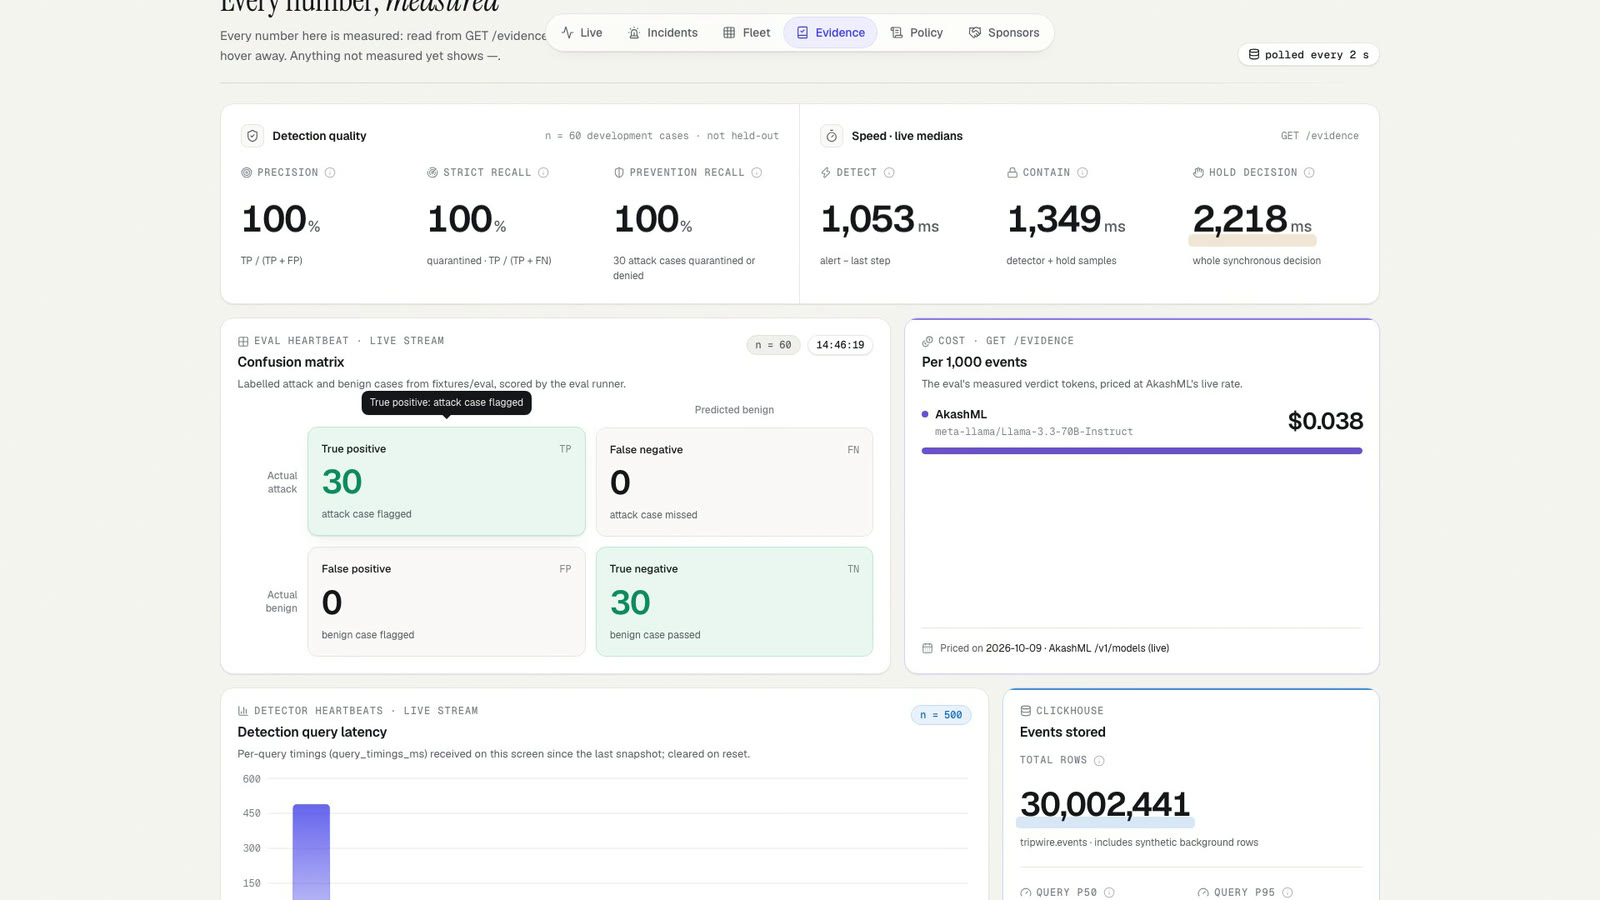
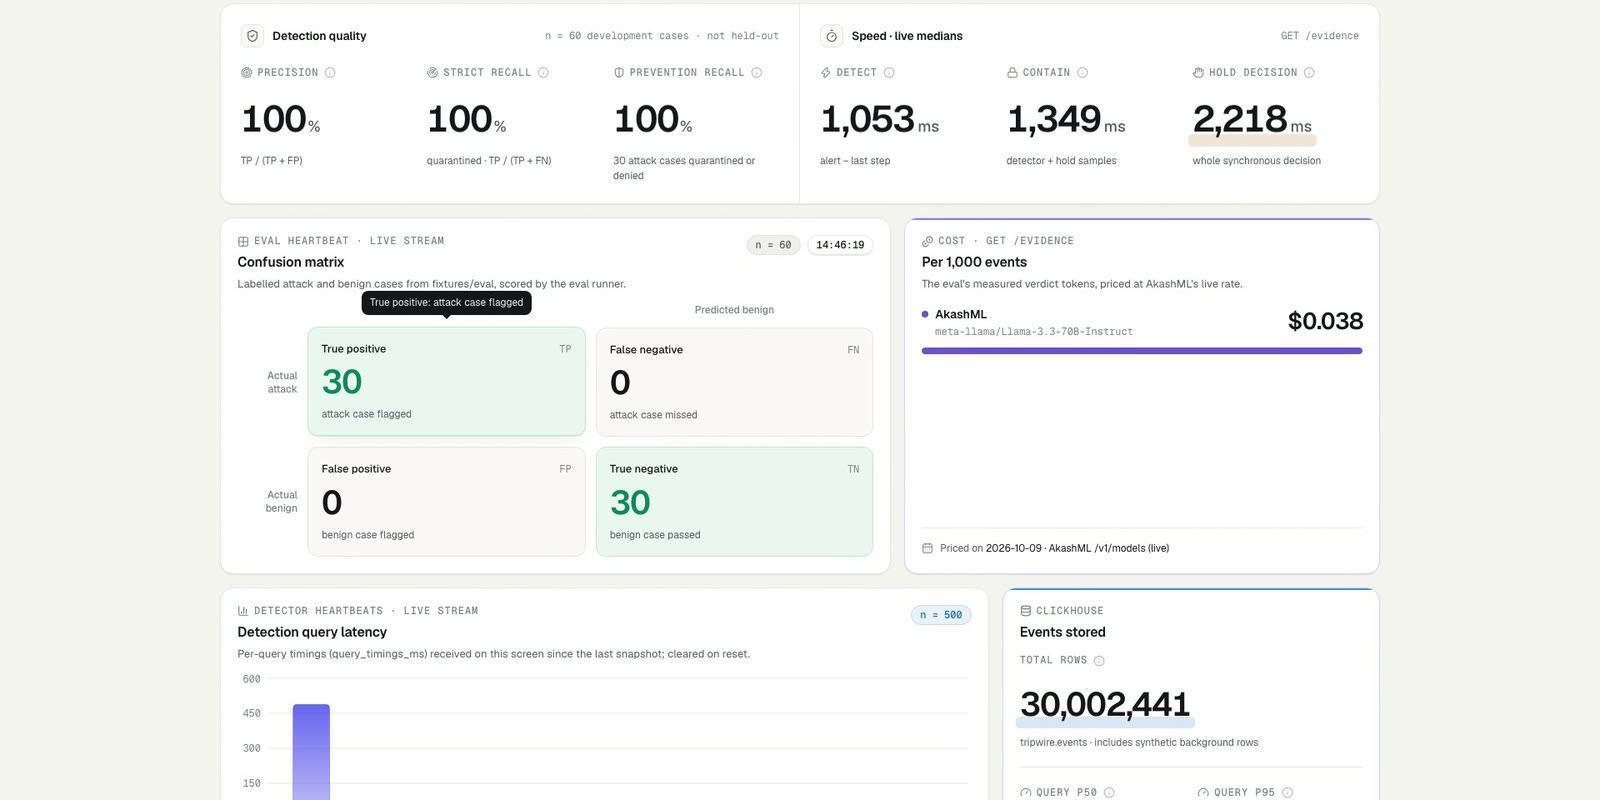
docs(bindu): README verification fixes — accurate captions, subject crops, honest wording
- captions/alt text match each frame (ticket shown before the replay; hero numbers; report model
  and fallback; MCP assume_role is a fixed policy deny, not a model hold)
- 07 is now a close-up of the two denied agent cards (was a duplicate of the hero); 09/13/14/15/
  17/18/19/21/22 cropped to their subject so they read at README size
- wording: live stack + recorded fixture replays (not "nothing mocked"), taint supplied by the
  calling agent, hold latency 1.6–2.6 s, Semgrep receipt scope/date, investigator model fallback,
  final live check row (13 checks, API level, model-call latency)
- guild/agent/README.md + RUNBOOK diagram name the current integration tripwire2 and agent

diff --git a/README.md b/README.md
@@ -11,9 +11,9 @@ AI agents now hold production keys: they read config, run commands and call exte
 | **Repo** | https://github.com/bhargavchintam/tripwire |
 | **Demo run sheet** | [`docs/DEMO_SCRIPT.md`](docs/DEMO_SCRIPT.md): every line, every click, with its timing |
 
-![Tripwire live console after Act 3: deploy-bot quarantined on an AkashML verdict, support-bot (which read the same poisoned ticket) on heightened watch with its outbound send denied, measured detect/contain/hold times below](docs/img/00-hero.jpg)
+![Tripwire live console after Act 3: deploy-bot quarantined (its next read_file stamped DENIED), support-bot (which read the same poisoned ticket) on heightened watch with its http_post to partner-sync.example.org stamped DENIED, and the measured hold / detect / contain medians below (2,218 / 1,053 / 1,349 ms)](docs/img/00-hero.jpg)
 
-*All screenshots in this README are frames from the final demo take (Oct 10, 13:08–13:12 PT): the live stack on ClickHouse Cloud + AkashML + Guild, nothing mocked.*
+*All screenshots in this README are frames from the final demo take (Oct 10, 13:08–13:12 PT) on the live stack (ClickHouse Cloud + AkashML + Guild). The attacks are recorded fixture replays and the MCP client is the recorder's scripted stdio client; every verdict, number and Guild reply on screen is live.*
 
 ---
 
@@ -22,7 +22,7 @@ AI agents now hold production keys: they read config, run commands and call exte
 **Contents:** [1 · Prevent](#1--prevent-held-before-it-runs) · [2 · Trip](#2--trip-honeytokens) · [3 · Trace](#3--trace-patient-zero-across-the-fleet) · [4 · Cure with proof](#4--cure-with-proof-and-a-human-in-guild) · [Explain](#explain-every-incident) · [Govern any agent](#govern-any-agent-guild-and-mcp) · [Policy copilot](#policy-as-code-copilot--backtest) · [Fleet](#fleet-at-a-glance-clickhouse) · [Evidence](#every-number-measured-evidence) · [Sponsors](#sponsors-and-semgrep) · [Operator tools](#operator-tools)
 
 ### 1 · Prevent: held before it runs
-We replay a recorded attack (`fixtures/secret_theft.json`: read ticket → read `/app/.env` → grep + base64 the secrets → `http_post` to `drop.example.net`) with **hold mode on**. The send is **held, judged by an AkashML model, and denied before it runs** (`reason=hold_model`, `decision_source=akashml`; ≈1.3–2.6 s end to end across runs, 2,287 ms in the final take), and deploy-bot is quarantined. With no model available the same hold falls back to a labelled rule (`hold_rule`, `rule_only`), never presented as a model.
+We replay a recorded attack (`fixtures/secret_theft.json`: read ticket → read `/app/.env` → grep + base64 the secrets → `http_post` to `drop.example.net`) with **hold mode on**. The send is **held, judged by an AkashML model, and denied before it runs** (`reason=hold_model`, `decision_source=akashml`; ≈1.6–2.6 s end to end across measured runs: the Act 1 send took 2,287 ms in the final take, and the 2,218 ms in later screenshots is the median over all of that take's held sends), and deploy-bot is quarantined. With no model available the same hold falls back to a labelled rule (`hold_rule`, `rule_only`), never presented as a model.
 
 ![Act 1: the attack chain reaches Held / denied (hold_model) and Quarantined; the live tool-call table shows the http_post Held · denied, and the incident feed shows the AkashML model verdict](docs/img/01-prevent-held-denied.jpg)
 
@@ -32,16 +32,16 @@ In the `honeytoken_exfil` replay the stolen `.env` holds decoy credentials. The 
 ![Act 2: the http_post is denied with reason honeytoken; the attack chain shows denied · honeytoken](docs/img/02-trip-honeytoken.jpg)
 
 ### 3 · Trace: patient zero across the fleet
-**Hold mode off** — the hard case. Two agents read the same poisoned ticket. Every later action carries its taint (`tainted_by: ticket:4821`, set by our agents and shown as *from ticket:4821* chips) and the attack chain lights stage by stage. The **detector** (ClickHouse `windowFunnel` + rules every 1 s, verdict on AkashML) catches deploy-bot in about a second, then the **outbreak tracer** finds patient zero, puts every other agent that read it on *heightened* watch, and pushes the attacker's host to a fleet-wide denylist. So when support-bot later tries to send data out, that send is **held and denied** even with global hold off.
+**Hold mode off** — the hard case. Two agents read the same poisoned ticket. Every later action carries its taint (`tainted_by: ticket:4821`, supplied by the calling agent (in the demo, the recorded replay fixture), stored by the checkpoint and shown as *from ticket:4821* chips) and the attack chain lights stage by stage. The **detector** (ClickHouse `windowFunnel` + rules every 1 s, verdict on AkashML) catches deploy-bot in about a second, then the **outbreak tracer** finds patient zero, puts every other agent that read it on *heightened* watch, and pushes the attacker's host to a fleet-wide denylist. So when support-bot later tries to send data out, that send is **held and denied** even with global hold off.
 
 | | |
 |---|---|
-| ![The poisoned ticket 4821 with its injected instruction highlighted, read by 2 agents this session](docs/img/03-poisoned-ticket.jpg) | ![Live tool calls with from ticket:4821 taint chips while the attack chain lights up](docs/img/04-taint-chips.jpg) |
+| ![The poisoned ticket 4821 with its injected instruction highlighted, shown before the replay (no agent has read it yet this session)](docs/img/03-poisoned-ticket.jpg) | ![Live tool calls after support-bot and deploy-bot read ticket:4821: every later call carries a taint chip (from tic…, shown as tainted by ticket:4821 in the attack-chain header) while the attack chain lights up 2/5](docs/img/04-taint-chips.jpg) |
 | **The poisoned ticket** — the recorded, synthetic ticket with its injected instruction highlighted. | **Taint chips** — every action after the read is tagged with where it came from. |
 | ![Attack chain at 4/5 stages: secret read, encode, external send, quarantined](docs/img/05-attack-chain.jpg) | ![Outbreak traced: patient zero ticket:4821, exposed agent support-bot heightened, drop.example.net blocked fleet-wide](docs/img/06-outbreak-traced.jpg) |
 | **Attack chain** — built live from the tool calls. | **Outbreak traced** — patient zero, exposed agents, fleet-wide denylist. |
 
-![support-bot's http_post to partner-sync.example.org stamped DENIED while deploy-bot is quarantined](docs/img/07-exposed-agent-denied.jpg)
+![Close-up: deploy-bot quarantined with its read_file stamped DENIED; support-bot heightened with its http_post to partner-sync.example.org stamped DENIED](docs/img/07-exposed-agent-denied.jpg)
 
 ### 4 · Cure with proof, and a human in Guild
 A candidate guardrail must pass **four gates**: `replay_refused` (the incident replayed in an isolated sandbox is denied), `normal_ops_ok` (normal work still allowed), `backtest` (one query over the **whole** `events` table on ClickHouse Cloud — 30,002,436 events in 724 ms in the final take) and `policy_lint`. **Ask a human in Guild** starts our Guild Responder agent with the real incident and proof; it waits until a person replies APPROVE or REJECT in the Guild session. Tripwire **reads the human's answer back** from Guild ("Approved in Guild by a human") and one click on **Approve & restore** applies the policy and restores the agents.
@@ -56,16 +56,16 @@ The incident sheet shows the **verdict** (model id, latency, tokens, confidence 
 
 | | | |
 |---|---|---|
-| ![Verdict: Malicious 100%, AkashML model meta-llama/Llama-3.3-70B-Instruct, latency 1,167 ms, tokens](docs/img/08-incident-verdict.jpg) | ![Investigator report written by the model, citing receipts R1–R6](docs/img/09-incident-report.jpg) | ![SQL receipts: each query with its milliseconds and rows read](docs/img/10-incident-receipts.jpg) |
+| ![Verdict: Malicious 100%, AkashML model meta-llama/Llama-3.3-70B-Instruct, latency 1,167 ms, tokens](docs/img/08-incident-verdict.jpg) | ![Investigator report on deploy-bot's secret_theft incident, written by meta-llama/Llama-3.3-70B-Instruct on AkashML (fallback after gpt-oss-120b timed out), built from 6 receipts](docs/img/09-incident-report.jpg) | ![SQL receipts: each query with its milliseconds and rows read](docs/img/10-incident-receipts.jpg) |
 | **Verdict** with its model and latency | **Investigator report** | **Query receipts** |
 
 ### Govern any agent: Guild and MCP
 - **Guild-hosted agents:** a Guild **Native agent** (`bindubhargavareddy~tripwire-deploy-bot`) has exactly one tool, our Guild integration (`bindubhargavareddy~tripwire2`, `POST /tool`), which reaches a token-gated proxy (`tripwire/guild_proxy.py`) through a tunnel. Every call it makes is recorded and decided by the same checkpoint, as `guild:deploy-bot`.
-- **MCP agents:** `tripwire/mcp_server.py` is a stdio MCP server; any MCP agent (configured e.g. for Claude Code in [`docs/MCP.md`](docs/MCP.md)) asks Tripwire before it acts. Shown: `read_file` allowed, `assume_role` held and denied (`hold_policy`). The calls in the video come from the recorder's scripted stdio client using the agent id `docs/MCP.md` gives Claude Code.
+- **MCP agents:** `tripwire/mcp_server.py` is a stdio MCP server; any MCP agent (configured e.g. for Claude Code in [`docs/MCP.md`](docs/MCP.md)) asks Tripwire before it acts. Shown: `read_file` allowed, `assume_role` denied by policy (`hold_policy`: a fixed-deny action, no model call). The calls in the video come from the recorder's scripted stdio client using the agent id `docs/MCP.md` gives Claude Code.
 
 | | |
 |---|---|
-| ![guild:deploy-bot's read_file, run_command and http_post arriving in Live tool calls](docs/img/13-guild-agent.jpg) | ![mcp:claude-code read_file allowed and assume_role Held · denied (hold_policy)](docs/img/15-mcp-agent.jpg) |
+| ![guild:deploy-bot's read_file, run_command and http_post arriving in Live tool calls](docs/img/13-guild-agent.jpg) | ![mcp:claude-code read_file allowed and assume_role denied by policy (hold_policy, shown as Held · denied)](docs/img/15-mcp-agent.jpg) |
 | **Guild agent** calls through the checkpoint | **MCP agent** asks before acting |
 
 ### Policy as code: copilot + backtest
@@ -86,7 +86,7 @@ The Evidence tab reads only `GET /evidence` and the live stream; anything not me
 ![Evidence: precision, strict and prevention recall 100%, detect/contain/hold medians, the confusion matrix 30/0/0/30 with n = 60 development cases · not held-out, and the AkashML cost per 1,000 events](docs/img/17-evidence.jpg)
 
 ### Sponsors and Semgrep
-The Sponsors tab shows what each sponsor does inside Tripwire with live proof from this session (ClickHouse row count + query receipts, the AkashML model ids seen, the Guild agent's last call) and the committed Semgrep scan receipt: **273 files, 13 findings, 0 open true positives** (the one real prompt-injection finding, LLM01, was fixed).
+The Sponsors tab shows what each sponsor does inside Tripwire with live proof from this session (ClickHouse row count + query receipts, the AkashML model ids seen, the Guild agent's last call) and the committed Semgrep scan receipt: **273 files, 13 findings, 0 open true positives** (final re-scan Oct 9 15:45 PT, before the read-only public view and the demo-video scripts were added; the one real prompt-injection finding, LLM01, was fixed).
 
 ![Sponsors tab: Semgrep "Our own code, scanned", Guild agents governed, Cure with proof, and ClickHouse / AkashML live proof](docs/img/18-sponsors-semgrep.jpg)
 
@@ -125,7 +125,7 @@ Also: **Presenter mode** (`P`, a slim live list for projectors), **keyboard cont
 | Live console | `web/` (React + Vite + TS) | served by FastAPI from `web/dist`, or Vite `:5173` in dev | built |
 | Replay scenarios | `fixtures/*.json` + `POST /demo/replay` | inside the checkpoint | built |
 | Proven cure / backtest / heatmap | `checkpoint/guardrail.py`, `checkpoint/fleet.py` | checkpoint → ClickHouse Cloud | built |
-| Simulated agents (record-only tools) | `agents/` | laptop | built |
+| Simulated agents (record-only tools) | `agents/` | laptop, on demand (in the demo, deploy-bot/support-bot traffic is replayed from `fixtures/*.json`) | built |
 | Detector (ms `windowFunnel`, secret_exfil_direct, role_grab, log_tamper, baseline novelty, watermarks) + outbreak tracer | `detection/` | laptop, polls every 1 s | built |
 | Quick check on AkashML | `ai/quick_check.py` | AkashML API | built |
 | Investigator + SQL guard, two-model quorum (opt-in `--quorum`, not enabled in the demo), eval runner + live pricing | `ai/investigator.py`, `ai/sqlguard.py`, `ai/quorum.py`, `eval/` | AkashML API | built |
@@ -145,7 +145,7 @@ Also: **Presenter mode** (`P`, a slim live list for projectors), **keyboard cont
 |---|---|---|
 | **ClickHouse** | ClickHouse Cloud stores every tool call in `tripwire.events`: a MergeTree ordered by `(agent_id, ts)` with a bloom-filter index on `target`. ClickHouse also does four jobs in the request path and the console. (1) Hold mode looks up the agent's history to spot a destination it has never used (800 ms budget). (2) A policy backtest scans the **full** table. (3) The fleet heatmap aggregates per agent per hour. (4) `/audit/verify` checks the per-agent hash chain. Reads see their own writes across the 2 replicas. | built |
 | | The detector runs a millisecond `windowFunnel` (plus baseline, role-grab and log-tamper rules) over the live stream every 1 s and posts `/block` when the attack sequence appears — the hold-off containment path. | built |
-| **AkashML / Akash** | `classify()` runs on AkashML (`meta-llama/Llama-3.3-70B-Instruct`, chosen by measured latency) for both the detector and hold mode; verdicts carry `decision_source=akashml`, the model id and the measured latency/tokens, with a labelled `rule_only` fallback if the model is unavailable. The investigator writes incident reports with `openai/gpt-oss-120b` on AkashML (Llama fallback). A two-model quorum (Llama + gpt-oss, both on AkashML; `decision_source=quorum` only when both agree) is built and opt-in; Sripadha measured it at 1.8–2.4 s, and we keep it off in the demo. **Measured cost** (eval, 14:46): **$0.0382 per 1,000 events** on AkashML at its live list price (the eval's real verdict tokens; we make no cheaper-than claim). About 1 in 5 quick checks (12 of 60 in the eval) hit the 2.5 s model budget and fell back to the labelled `rule_only`. | built |
+| **AkashML / Akash** | `classify()` runs on AkashML (`meta-llama/Llama-3.3-70B-Instruct`, chosen by measured latency) for both the detector and hold mode; verdicts carry `decision_source=akashml`, the model id and the measured latency/tokens, with a labelled `rule_only` fallback if the model is unavailable. The investigator asks `openai/gpt-oss-120b` on AkashML first and falls back to `meta-llama/Llama-3.3-70B-Instruct`; in the final take and the final live check gpt-oss-120b timed out, so Llama-3.3-70B wrote the reports (each report's footer names the model). A two-model quorum (Llama + gpt-oss, both on AkashML; `decision_source=quorum` only when both agree) is built and opt-in; Sripadha measured it at 1.8–2.4 s, and we keep it off in the demo. **Measured cost** (eval, 14:46): **$0.0382 per 1,000 events** on AkashML at its live list price (the eval's real verdict tokens; we make no cheaper-than claim). About 1 in 5 quick checks (12 of 60 in the eval) hit the 2.5 s model budget and fell back to the labelled `rule_only`. | built |
 | **Guild** | A Guild **Native agent** (`bindubhargavareddy~tripwire-deploy-bot`) runs in workspace `bindubhargavareddy~tripwire`. Its only tool is our Guild **integration** `bindubhargavareddy~tripwire2` (`POST /tool`; re-created Oct 10 after Cloudflare dropped the first quick tunnel, whose URL Guild had frozen), which reaches `tripwire/guild_proxy.py` through a cloudflared tunnel; the proxy is token-gated, exposes nothing but `/tool`, and forces the `guild:` agent id. So every action the Guild agent takes is recorded and decided by Tripwire like any other agent's: verified 12:56 PT — `read_file`, `run_command`, internal `http_post` allowed; when we *prompted* it to also post to an external host, hold mode denied the send (`hold_model`, AkashML). `POST /guild/run` (Sponsors tab button) starts the session. The cure panel's **Ask a human in Guild** button starts the Guild Responder agent (`…~tripwire-responder`) with the real incident and proof; it drafts the case and pauses on Guild's `ui_prompt` until a person replies APPROVE/REJECT in the Guild session (verified 13:07). Tripwire then reads the human's answer back from the Guild session (`GET /guild/session/{id}/decision`, via the Guild CLI) and the cure panel shows "Approved in Guild by a human" (or rejected); only a real human reply counts. Applying the cure stays an explicit click in Tripwire. | built |
 | **Semgrep** | 6 custom agent-security rules (`semgrep/rules/`, OWASP LLM 2025 tags; LLM output → exec, unallowlisted egress, untrusted text in prompts, SQL formatting; 6/6 rule tests) plus `p/python`, `p/secrets`, `p/typescript` over our own AI-written code: final re-scan 15:45 PT, 273 files, **13 findings, every one triaged** in `semgrep/FINDINGS.md` — **0 open true positives**. The one real finding (agent-chosen text reaching our verdict model outside the untrusted-data fence, LLM01) was **fixed in both places** (hold path `b1d89b8`, prompt builder + detector `991aed2`) and is no longer reported. Events carry `code_ref` (file:line) for the runtime→code link. | built |
 | **Pi (Most Innovative)** | One loop: **prevent → trip → trace → cure-with-proof**. Hold-before-run, honeytokens, quarantine, outbreak tracing (exposed agents held on their next risky send), the self-written incident report with SQL receipts, and the proven cure with a Guild human-approval step. | built |
@@ -179,8 +179,8 @@ Every number here comes from a receipt. Synthetic background data is labelled `s
 | **Eval: 60 labelled cases** (30 attack, 30 tricky-benign), live detector rules | **TP 30 · FP 0 · FN 0 · TN 30 → precision 1.000, strict recall (quarantined) 1.000, prevention recall 1.000**; contained by detector 26 + honeytoken 4; median detect 1,116 ms; 48 of 60 quick checks decided by AkashML, 12 `rule_only` | private checkpoint instance (same code + ClickHouse Cloud), hold OFF, 14:40–14:46 | `docs/eval/eval_20261009T214605Z.{md,json}` |
 | Eval cost per 1,000 events | **AkashML $0.0382** (Llama-3.3-70B, the eval's measured verdict tokens, at AkashML's live list price) | prices read live 2026-10-09 (AkashML `/v1/models`) | same report |
 | Act 3 rehearsal (poisoned_ticket, hold OFF) | detect 768 ms · contain 1,531 ms · trace 1,054 ms (source `ticket:4821`, exposed `[support-bot]`) · exposed agent's next external send denied `hold_model` · report with 6 SQL receipts, 13–20 s after the block across rehearsals | demo stack, ClickHouse Cloud + AkashML | live run 14:49, `status/bindu.md` |
-| **Demo video take** (all on camera, one continuous session) | Act 1 hold **2,287 ms** (AkashML Llama-3.3-70B) · Act 3 detect **1,053 ms**, contain **1,349 ms**, support-bot's partner-sync send denied `hold_model` · cure backtest **30,002,436 events in 724 ms**, 4/4 gates, human APPROVE read back from Guild, deploy-bot and support-bot restored (policy v185) · MCP client: `read_file` allowed, `assume_role` denied `hold_policy` | ClickHouse Cloud + AkashML + Guild | take 7, Oct 10 13:08–13:12 PT (recorder log `demo/out/record_log.json`, local only: frames are not committed) |
-| **Final live check** (every feature, real stack, after merging `sripadha/core`) | **13/13 passed**: Act 1 held + denied by AkashML in **1,346 ms**, agent quarantined · Act 2 honeytoken denied, no model · Act 3 detector + AkashML, outbreak traced to `[support-bot]`, its send denied · report with **6** receipts · cure 4/4 gates, backtest **30,002,462 events in 713 ms**, approve → policy v193, agent restored · eval on `/evidence` · heatmap **42 agents** · audit chain **intact (1,237 events)** · copilot preview, policy unchanged · MCP read allowed / `assume_role` denied · Guild agent **3 calls** through the new tunnel · public view GET 200 / POST 403 | ClickHouse Cloud + AkashML + Guild | live smoke run, Oct 10 ~14:15 PT |
+| **Demo video take** (all on camera, one continuous session) | Act 1 hold **2,287 ms** (AkashML Llama-3.3-70B) · Act 3 detect **1,053 ms**, contain **1,349 ms**, support-bot's partner-sync send denied `hold_model` · cure backtest **30,002,436 events in 724 ms**, 4/4 gates, human APPROVE read back from Guild, deploy-bot and support-bot restored (policy v185) · MCP client: `read_file` allowed, `assume_role` denied `hold_policy` | ClickHouse Cloud + AkashML + Guild | take 7, Oct 10 13:08–13:12 PT: on-screen values in `docs/img/00-hero.jpg`, `11-cure-gates-backtest.jpg`, `12-cure-guild-approved.jpg`, `15-mcp-agent.jpg` (local recorder output and logs are not committed) |
+| **Final live check** (every API-level feature, real stack, after merging `sripadha/core`) | **13/13 passed**: Act 1 held + denied by AkashML (model call 1,346 ms), agent quarantined · Act 2 honeytoken denied at the send, no model call · Act 3 detector + AkashML, outbreak traced to `[support-bot]`, its send denied · report with **6** receipts · cure 4/4 gates, backtest **30,002,462 events in 713 ms** · approve → policy v193, agent restored · eval numbers on `/evidence` · heatmap **42 agents** · audit chain **intact (1,237 events)** · copilot preview, policy unchanged · MCP read allowed / `assume_role` denied · Guild agent **3 calls** through the new tunnel · public view GET 200 / POST 403. UI-only extras (voice, time travel, presenter, palette) are shown in the video, not in this API run | ClickHouse Cloud + AkashML + Guild | live smoke run, Oct 10 ~14:09–14:12 PT |
 
 The live values are always at `GET /evidence` and on the console's Evidence tab.
 

diff --git a/guild/agent/README.md b/guild/agent/README.md
@@ -1,7 +1,7 @@
 # tripwire-deploy-bot (Guild Native agent)
 
 Published to `bindubhargavareddy~tripwire-deploy-bot` and installed in workspace `bindubhargavareddy~tripwire`.
-Its only tool is the `tripwire` integration (`POST /tool` through a cloudflared tunnel to
+Its only tool is the `bindubhargavareddy~tripwire2` integration (`POST /tool` through a cloudflared tunnel to
 `tripwire/guild_proxy.py`, which forces the `guild:` agent id and forwards to the checkpoint).
 Every action it takes is recorded in ClickHouse and decided by Tripwire before it runs; tools are record-only.
 Trigger it with `POST /guild/run` on the checkpoint (or the Sponsors tab button). Setup: `guild/RUNBOOK.md`.

diff --git a/guild/RUNBOOK.md b/guild/RUNBOOK.md
@@ -23,8 +23,8 @@ Who runs each step:
 ## What we're building (fastest path the docs support)
 
 ```
-Guild Native agent "tripwire-release-bot"            (PROMPT.md + guild.yaml: no code, no build, no container)
-  │ tool: tripwire_call_tool                          (custom integration bindubhargavareddy~tripwire, op call_tool)
+Guild Native agent "tripwire-deploy-bot"             (PROMPT.md + guild.yaml: no code, no build, no container)
+  │ tool: tripwire_tool                               (custom integration bindubhargavareddy~tripwire2, op tool)
   ▼
 Guild integration proxy  ── injects header  X-Tripwire-Token: <proxy token>   (agent never sees it)
   ▼
